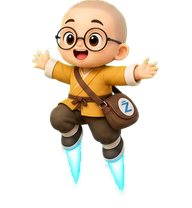
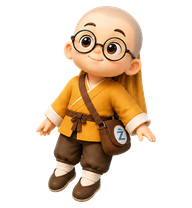
改用静态悬空素材呈现 Zenmi 拖动姿势

diff --git a/src/renderer/copilot/pet-copilot/DesktopPet.tsx b/src/renderer/copilot/pet-copilot/DesktopPet.tsx
@@ -971,13 +971,7 @@ export function DesktopPet() {
     : undefined;
   const stateSpriteStyle = shouldShowStateSpriteAnimation
     ? {
-        backgroundImage: `url("${visualAsset.assetPath}")`,
-        // Keep Zenmi's rocket pose on the first frame while held in place.
-        ...(BRAND_ID === "zenmind" &&
-        appearanceId === DEFAULT_DESKTOP_PET_APPEARANCE_ID &&
-        visualStatus === "dragging"
-          ? { animation: "none", backgroundPosition: "0 0" }
-          : {})
+        backgroundImage: `url("${visualAsset.assetPath}")`
       }
     : undefined;
   useEffect(() => {
